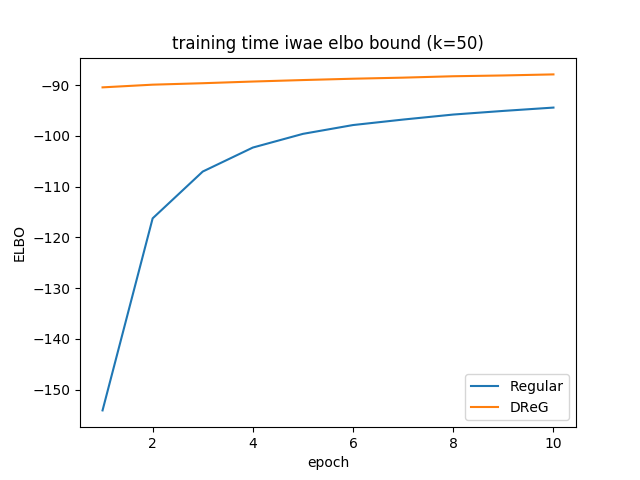
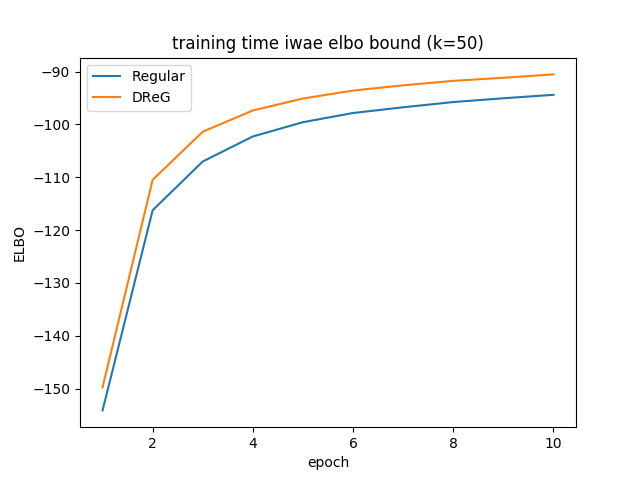
main: fix model re-initialisation for ablation
- model and optimizer were not being reinitialised for the different runs
   during the ablations

diff --git a/main.py b/main.py
@@ -55,7 +55,6 @@ test_loader = torch.utils.data.DataLoader(
 model = model_.VAE().to(device)
 optimizer = optim.Adam(model.parameters(), lr=args.learning_rate)
 
-
 def train(epoch):
   model.train()
   train_loss = 0
@@ -128,9 +127,15 @@ if __name__ == '__main__':
 
   if args.ablation:
     # Compare usual iwae with dreg iwae
+    torch.manual_seed(args.seed)
+    model = model_.VAE().to(device)
+    optimizer = optim.Adam(model.parameters(), lr=args.learning_rate)
     args.dreg = False
     regular_train, regular_test = main()
 
+    torch.manual_seed(args.seed)
+    model = model_.VAE().to(device)
+    optimizer = optim.Adam(model.parameters(), lr=args.learning_rate)
     args.dreg = True
     dreg_train, dreg_test = main()
 
